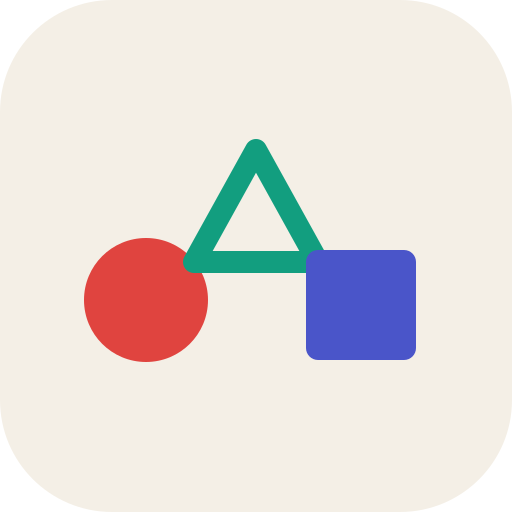
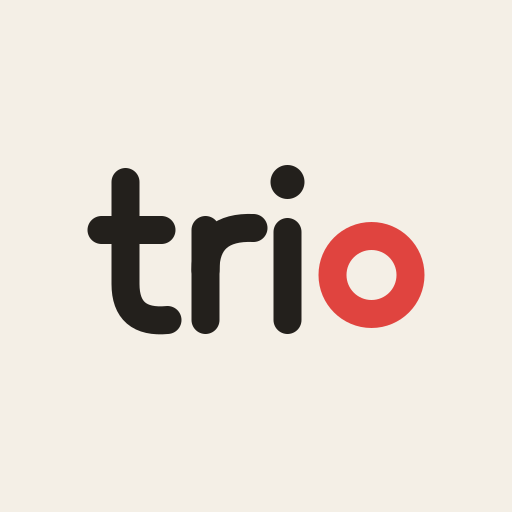
Nytt appikon basert på logoen
Claude-Session: https://claude.ai/code/session_01T23z4zU6BcJhnhECfQpNeu

diff --git a/sw.js b/sw.js
@@ -1,5 +1,5 @@
 // Enkel offline-støtte: hurtigbufrer spillets filer, henter nytt i bakgrunnen.
-const CACHE = 'trio-v2';
+const CACHE = 'trio-v3';
 const FILES = ['./', 'index.html', 'style.css', 'game.js', 'logic.js', 'manifest.webmanifest', 'icon.svg', 'icon-192.png', 'icon-512.png', 'icon-180.png', 'personvern.html'];
 
 self.addEventListener('install', (e) => {
